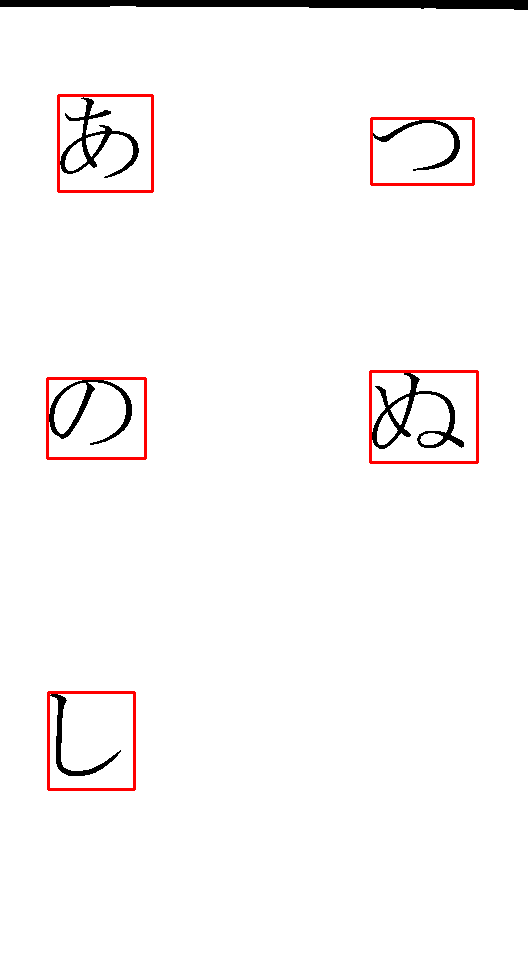
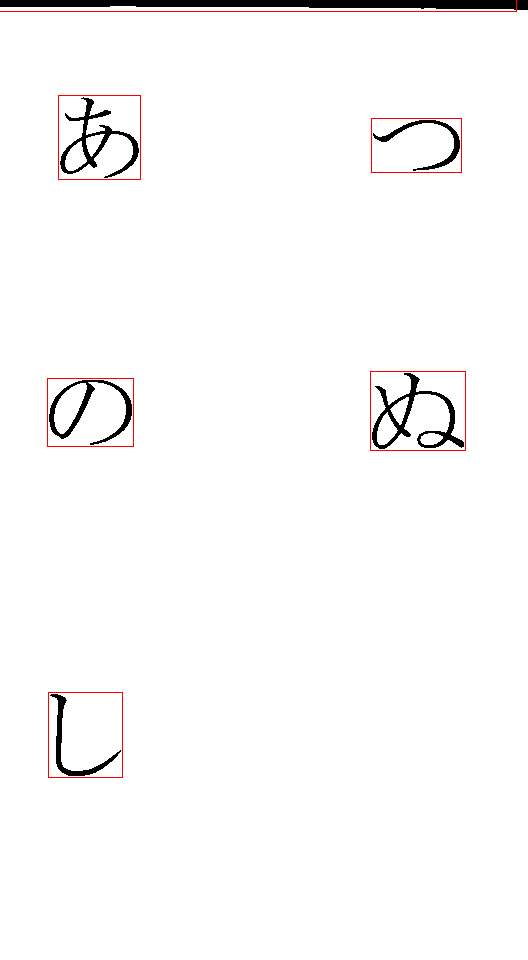
fusion

diff --git a/tp_burieV2.py b/tp_burieV2.py
@@ -5,7 +5,7 @@ import os
 import numpy as np
 from matplotlib import pyplot as plt
 import imghdr
-from scipy import ndimage 
+from scipy import ndimage
 import scipy.misc
 from astropy.io import fits
 from astropy.utils.data import get_pkg_data_filename
@@ -15,6 +15,11 @@ from astropy.convolution import convolve
 from scipy import signal as sg
 import sift
 from scipy import ndimage as ndi
+from operator import itemgetter
+import imageio
+import matplotlib.image as mpimg
+from  matplotlib.pyplot import *
+import random
 
 def applicationOfFilter(img, folder):
 
@@ -24,24 +29,45 @@ def applicationOfFilter(img, folder):
 
 	# Ovrir image 
 	img = openImage(folder, img)
-	no = openImage(folder, "no.png")
-	no2 = openImage(folder, "no2.png")
-	a = openImage(folder, "a.png")
-	shi = openImage(folder, "shi.png")
-	tsu = openImage(folder, "tsu.png")
-	nu = openImage(folder, "nu.png")
-
 	# Image noir et blanc
 	imgBW = getNBImage(img)
-	no = getNBImage(no)
-	no2 = getNBImage(no2)
-	a = getNBImage(a)
-	shi = getNBImage(shi)
-	tsu = getNBImage(tsu)
-	nu = getNBImage(nu)
-
 	# Save image
 	scipy.misc.imsave('otsu.png', imgBW)
+
+	# PATH = "img/a.png"
+	PATH = "otsu.png"
+
+	img = cv2.imread(PATH)
+
+	# Transformation en niveau de gris
+	gray = cv2.cvtColor(img, cv2.COLOR_BGR2GRAY)
+
+	# Seuillage
+	_,thresh = cv2.threshold(gray, 150, 255, cv2.THRESH_BINARY_INV)
+
+	kernel = cv2.getStructuringElement(cv2.MORPH_CROSS,(2,2))
+
+	# Dillatation
+	dilated = cv2.dilate(thresh,kernel,iterations = 13)
+
+	# Detection des contours
+	val1 = cv2.RETR_EXTERNAL
+	val2 = cv2.CHAIN_APPROX_NONE
+
+	_, contours, _= cv2.findContours(dilated, val1, val2)
+
+	# Pour chaque contour on les redessine sur l'image original
+	for contour in contours:
+	    [x,y,w,h] = cv2.boundingRect(contour)
+
+	    # On supprime les zones trop petites, pour eviter le bruit
+	    # if h<40 or w<40:
+	    #     continue
+	    cv2.rectangle(img,(x-2,y-2),(x+w-12,y+h-12),(0,0,255),1) 
+
+	cv2.imwrite('contoured_1.png', img)
+
+
 
 
 	# image = 1
@@ -59,8 +85,24 @@ def applicationOfFilter(img, folder):
 	# plt.show()
 
 	# ==============================
-	# ========= TRAITEMENT =========
+	# ========== ANALYSE ===========
 	# ==============================
+
+	# Ovrir image 
+	no = openImage(folder, "no.png")
+	no2 = openImage(folder, "no2.png")
+	a = openImage(folder, "a.png")
+	shi = openImage(folder, "shi.png")
+	tsu = openImage(folder, "tsu.png")
+	nu = openImage(folder, "nu.png")
+
+	# Image noir et blanc
+	no = getNBImage(no)
+	no2 = getNBImage(no2)
+	a = getNBImage(a)
+	shi = getNBImage(shi)
+	tsu = getNBImage(tsu)
+	nu = getNBImage(nu)
 
 	# Pourcentage de noir et blanc 
 	noHist = getHistGreyImage(no)

diff --git a/comp_connexe.py b/comp_connexe.py
@@ -9,9 +9,6 @@ import matplotlib.image as mpimg
 from  matplotlib.pyplot import *
 import random
 from scipy import ndimage, misc
-from skimage import measure
-from skimage import segmentation
-from skimage import morphology
 
 
 PATH = "otsu.png"
@@ -23,6 +20,7 @@ gray = cv2.cvtColor(img, cv2.COLOR_BGR2GRAY)
 
 # Seuillage
 _,thresh = cv2.threshold(gray, 150, 255, cv2.THRESH_BINARY_INV)
+cv2.imwrite('coucou.png', thresh)
 
 kernel = cv2.getStructuringElement(cv2.MORPH_CROSS,(2,2))
 
